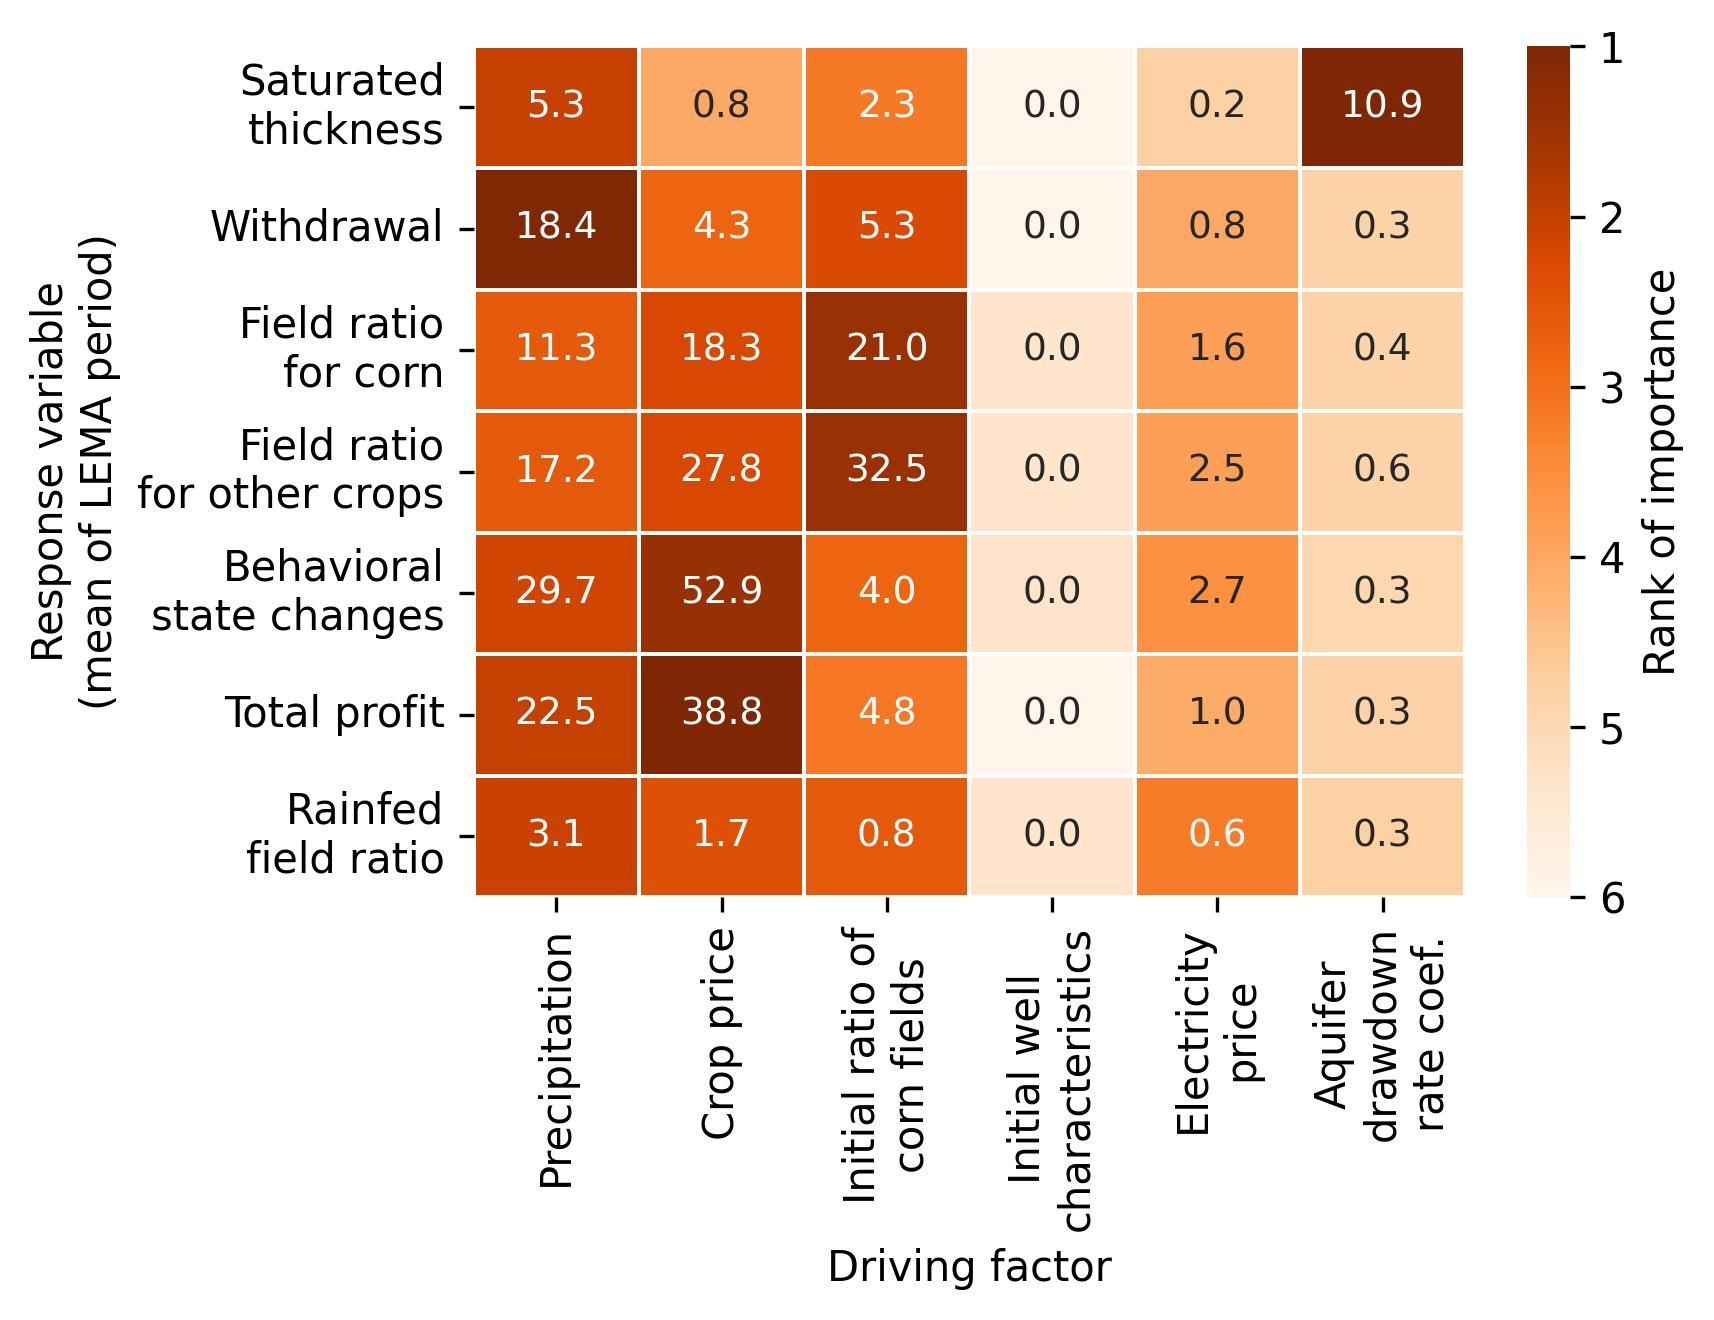
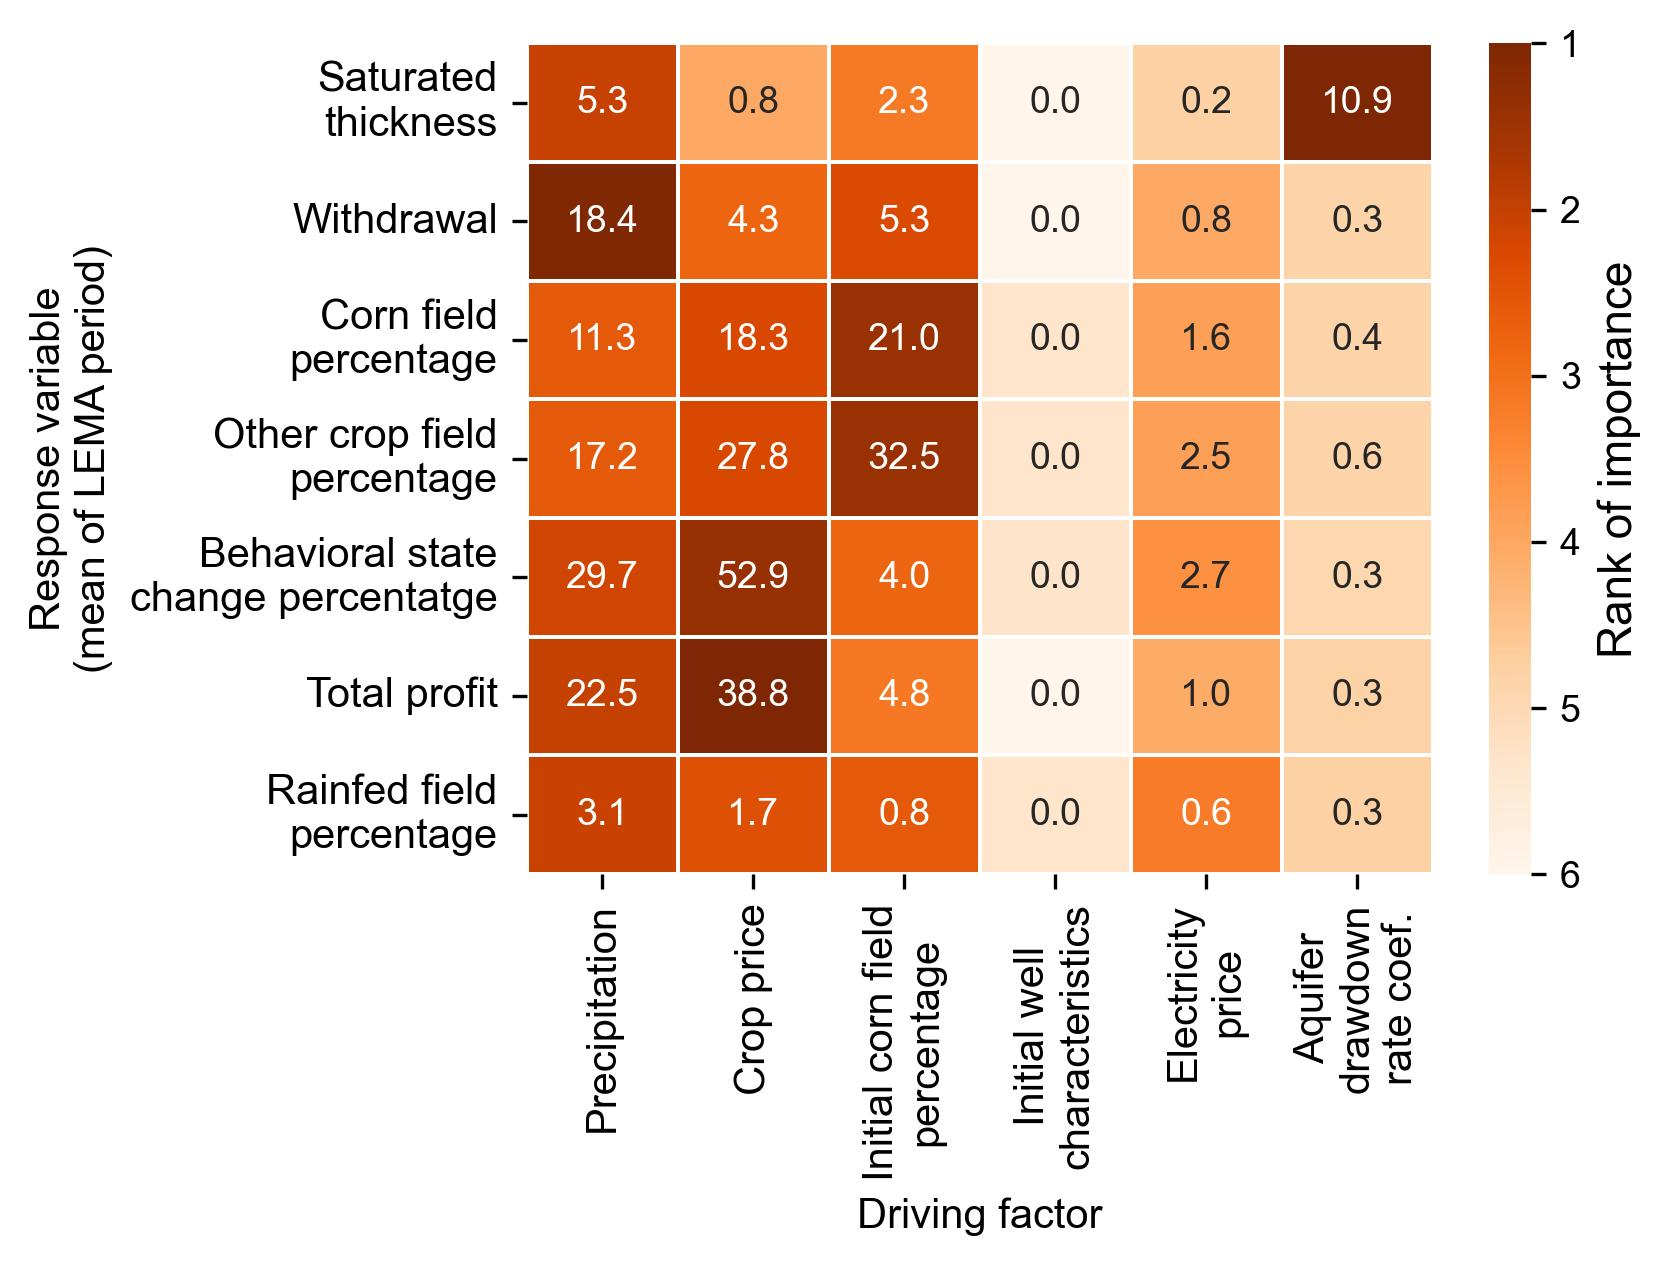
update figure ratio to percentage

diff --git a/code/anova_utils.py b/code/anova_utils.py
@@ -22,7 +22,24 @@ var_dict = {
     'CSC': 'Behavioral\nstate changes',
     'TP': 'Total\nprofit'
     }
-
+var_dict_revised = {
+    'ST': 'Saturated\nthickness',
+    'Wi': 'Withdrawal',
+    'RF': 'Rainfed\nfield ratio',
+    'CF': 'Corn field\npercentage',
+    'OF': 'Other crop field\npercentage',
+    'CSC': 'Behavioral state\nchange percentatge',
+    'TP': 'Total\nprofit'
+    }
+var_dict_revised2 = {
+    'ST': 'Saturated\nthickness',
+    'Wi': 'Withdrawal',
+    'RF': 'Rainfed\nfield ratio',
+    'CF': 'Corn field\npercentage',
+    'OF': 'Other crop field\npercentage',
+    'CSC': 'Behavioral\nstate change\npercentatge',
+    'TP': 'Total\nprofit'
+    }
 
 def anova_yr(y_out, df_sys_all, yr, seed=None, plot_residual=False, typ=1):
     """
@@ -260,17 +277,17 @@ def plot_anova_sum_sq_fraction(mu_dict, save_figname=None):
     reordered_colors = [cm(0), cm(1), cm(5), cm(3), cm(4)]
     vars_order = ["Pr", "Cr", "Co", "IV", "Interaction terms"]
     def add_anova(ax, v, show_xticks=True):
-        name = var_dict[v]
+        name = var_dict_revised[v]
         mu = mu_dict[v][vars_order]
         mu.plot(kind='bar', stacked=True, ax=ax, width=0.7, legend=False, color=reordered_colors, edgecolor='dimgray')
-        ax.set_ylabel(name, fontsize=10)
+        ax.set_ylabel(name, fontsize=12)
         ax.set_ylim([0,1])
         ax.grid(True, axis='y', linestyle='--', alpha=0.5)
         if show_xticks is False:
             ax.set_xticklabels([])
         else:
-            ax.set_xlabel("Year", fontsize=10)
-
+            ax.set_xlabel("Year", fontsize=12)
+        ax.tick_params(axis='both', labelsize=12)
     def add_anova_mean(ax, v, show_xticks=True):
         mu = df_mean.loc[[v], vars_order]
         mu.index = ["Mean"]
@@ -281,6 +298,7 @@ def plot_anova_sum_sq_fraction(mu_dict, save_figname=None):
         ax.grid(True, axis='y', linestyle='--', alpha=0.5)
         if show_xticks is False:
             ax.set_xticklabels([])
+        ax.tick_params(axis='both', labelsize=12)
         # Remove all four spines (top, right, left, bottom)
         #for spine in ['top', 'right', 'left', 'bottom']:
         #    ax.spines[spine].set_visible(False)
@@ -294,12 +312,13 @@ def plot_anova_sum_sq_fraction(mu_dict, save_figname=None):
     map_dict = {
         "Pr": "Prec ratio\n(Pr)",
         "Cr": "Crop price\nratio (Cr)",
-        "Co": "Initial corn\nfield ratio (Co)",
+        "Co": "Initial corn field\npercentage (Co)",
         "IV": "Internal\nvariability",
         #"Error": "Model\nerror",
         "Interaction terms": "Interaction\nterms"}
     labels = [map_dict[i] if map_dict.get(i) is not None else i for i in labels]
-    fig.legend(handles, labels, ncols=len(vars_order), bbox_to_anchor=(0.48, -0.05), loc='upper center', frameon=False, fontsize=8)
+    fig.legend(handles, labels, ncols=len(vars_order), bbox_to_anchor=(0.48, -0.05), 
+               loc='upper center', frameon=False, fontsize=10)
     v = 'ST'
     ax = fig.add_subplot(gs[1, 0])
     add_anova(ax, v)
@@ -344,7 +363,7 @@ def plot_anova_sum_sq_fraction(mu_dict, save_figname=None):
     ]
 
     for label, (x, y) in zip(labels, positions):
-        fig.text(x, y, label, fontsize=10, fontweight='bold', ha='left', va='top')
+        fig.text(x, y, label, fontsize=12, fontweight='bold', ha='left', va='top')
 
     # Show the plot
     fig.tight_layout(rect=[0, 0, 0.85, 1])
@@ -674,6 +693,7 @@ def plot_norm_comparison(pn, df_Wi_regime_norm, fraction=True, save_figname=None
         # Reverse the x-axis tick labels
         ax.set_xticks([-1, -0.5, 0, 0.5, 1])
         ax.set_xticklabels([1, 0.5, 0, 0.5, 1])
+        ax.tick_params(axis='both', labelsize=12)
 
         # Add labels at center line
         for i, v in enumerate(vlist):
@@ -703,9 +723,11 @@ def plot_norm_comparison(pn, df_Wi_regime_norm, fraction=True, save_figname=None
     v_regime = "Wi_regime"
     df_lower, df_higher = get_df_higher_lower(v_regime)
     add_bars(ax, df_lower, df_higher)
-    ax.set_ylabel("Fraction of\nvariance explained", fontsize=10)
-    ax.set_xticklabels([var_dict[v] for v in df_lower.index])
-    ax.set_ylabel("Fraction of\nvariance explained", fontsize=10)
+    ax.set_ylabel("Fraction of\nvariance explained", fontsize=12)
+    ax.set_xticklabels([var_dict_revised2[v] for v in df_lower.index])
+    ax.set_ylabel("Fraction of\nvariance explained", fontsize=12)
+    # Tick labels (x and y)
+    ax.tick_params(axis='both', labelsize=10.5)
 
     ##### Second left subplot (bottom-left), share x-axis
     # ax = fig.add_subplot(gs[1, 0])
@@ -717,9 +739,11 @@ def plot_norm_comparison(pn, df_Wi_regime_norm, fraction=True, save_figname=None
 
     # Add legend
     handles, labels = ax.get_legend_handles_labels()
-    map_dict = {"Pr": "Prec ratio\n(Pr)", "Cr": "Crop price\nratio (Cr)", "Co": "Initial corn\nfield ratio (Co)", "Residual": "Internal\nvariability", "Interaction terms": "Interaction\nterms"}
+    map_dict = {"Pr": "Prec ratio\n(Pr)", "Cr": "Crop price\nratio (Cr)", 
+                "Co": "Initial corn field\n percentage (Co)", "Residual": "Internal\nvariability", "Interaction terms": "Interaction\nterms"}
     labels = [map_dict[i] if map_dict.get(i) is not None else i for i in labels]
-    legend1 = fig.legend(handles, labels, ncols=5, bbox_to_anchor=(0.5, 0.03), loc='upper center', frameon=False, fontsize=8)
+    legend1 = fig.legend(handles, labels, ncols=5, bbox_to_anchor=(0.5, 0.05), loc='upper center', 
+                         frameon=False, fontsize=10)
     # Second legend: hatch styles
     hatch_lower = mpatches.Patch(facecolor='white', edgecolor='dimgray', hatch='//', label='Lower than\nhistorical values')
     hatch_higher = mpatches.Patch(facecolor='white', edgecolor='dimgray', hatch=None, label='Higher than\nhistorical values')
@@ -727,10 +751,10 @@ def plot_norm_comparison(pn, df_Wi_regime_norm, fraction=True, save_figname=None
         [hatch_higher, hatch_lower],
         ['Higher irrigation intensity', 'Lower irrigation intensity'],
         ncol=2,
-        bbox_to_anchor=(0.5, -0.1),
+        bbox_to_anchor=(0.5, -0.12),
         loc='upper center',
         frameon=False,
-        fontsize=8
+        fontsize=10
     )
 
     # Ensure both legends are added to the figure
@@ -740,8 +764,12 @@ def plot_norm_comparison(pn, df_Wi_regime_norm, fraction=True, save_figname=None
     ##### Third right subplot (top-right)
     ax = fig.add_subplot(gs[0, 1])
     add_hbar(ax, df_Wi_regime_norm, reverse=False)
-    ax.set_xlabel('Normalized mean value')
-
+    ax.set_xlabel('Normalized mean value', fontsize=12)
+    ax.set_ylabel('Variable', fontsize=12)
+    
+    # Tick labels (x and y)
+    ax.tick_params(axis='both', labelsize=12)
+    
     ##### Forth right subplot (bottom-right)
     # ax = fig.add_subplot(gs[1, 1])
     # add_hbar(ax, df_ST_regime_norm, reverse=True, hatch_at="higher")
@@ -754,7 +782,7 @@ def plot_norm_comparison(pn, df_Wi_regime_norm, fraction=True, save_figname=None
     ]
 
     for label, (x, y) in zip(labels, positions):
-        fig.text(x, y, label, fontsize=10, fontweight='bold', ha='left', va='top')
+        fig.text(x, y, label, fontsize=12, fontweight='bold', ha='left', va='top')
 
     #fig.text(-0.03, 0.78, "Withdrawal regime\ncomparison", fontsize=10, ha='center', va='center', rotation=90)
     #fig.text(-0.03, 0.32, "Saturated thickness\nregime comparison", fontsize=10, ha='center', va='center', rotation=90)

diff --git a/figures/code_for_plotting/fig3_S3_oat_heatmaps.py b/figures/code_for_plotting/fig3_S3_oat_heatmaps.py
@@ -10,15 +10,21 @@ pn = pathnavigator.create(root_dir)
 df_rank = pd.read_csv(pn.figures.data_for_plotting.get()/"fig3_oat_df_rank.csv", index_col=[0])
 df_si = pd.read_csv(pn.figures.data_for_plotting.get()/"fig3_oat_df_si.csv", index_col=[0])
 
+rename_map = {}
+
 df_rank.index = [i.replace("\r", "") for i in df_rank.index]
 df_si.index = [i.replace("\r", "") for i in df_si.index]
 df_rank.columns = [i.replace("\r", "") for i in df_rank.columns]
 df_si.columns = [i.replace("\r", "") for i in df_si.columns]
+
+
+df_rank.columns
+rename_map = {'Field ratio\nfor corn'}
 #%% Figure 3 OAT heatmap
 factors_ = [
     "Precipitation",
     "Crop price",
-    "Initial ratio of\ncorn fields",
+    'Initial corn field\npercentage',
     'Initial well' + '\n' + 'characteristics',#'\n'+r'($\bar{B}$)',
     ]
 
@@ -26,7 +32,7 @@ factors_ = [
 fig, ax = plt.subplots(figsize=(3.7, 4.2))
 
 # Plot the heatmap
-sns.heatmap(
+hm = sns.heatmap(
     df_rank.T[factors_],
     annot=df_si.T[factors_],
     cmap="Oranges_r",# "Reds_r",
@@ -36,6 +42,10 @@ sns.heatmap(
     annot_kws={"fontsize": 9},#, "fontweight": "bold"},
     ax=ax,
 )
+
+cbar = hm.collections[0].colorbar
+cbar.set_label("Rank of importance", fontsize=11)
+cbar.ax.tick_params(labelsize=9)
 
 ax.collections[0].colorbar.ax.invert_yaxis()
 ax.tick_params(axis="x", labelrotation=90)
@@ -54,7 +64,7 @@ plt.show()
 factors_ = [
     "Precipitation",
     "Crop price",
-    "Initial ratio of\ncorn fields",
+    'Initial corn field\npercentage',
     r'Initial well' + '\n' + 'characteristics',#'\n'+r'($\bar{B}$)',
     "Electricity\nprice",
     "Aquifer\ndrawdown\nrate coef.",
@@ -64,7 +74,7 @@ factors_ = [
 fig, ax = plt.subplots(figsize=(5.91, 4.5))
 
 # Plot the heatmap
-sns.heatmap(
+hm = sns.heatmap(
     df_rank.T[factors_],
     annot=df_si.T[factors_],
     cmap="Oranges_r",# "Reds_r",
@@ -74,6 +84,10 @@ sns.heatmap(
     annot_kws={"fontsize": 9},#, "fontweight": "bold"},
     ax=ax,
 )
+
+cbar = hm.collections[0].colorbar
+cbar.set_label("Rank of importance", fontsize=11)
+cbar.ax.tick_params(labelsize=9)
 
 ax.collections[0].colorbar.ax.invert_yaxis()
 ax.tick_params(axis="x", labelrotation=90)

diff --git a/figures/code_for_plotting/figS5_anova.py b/figures/code_for_plotting/figS5_anova.py
@@ -30,14 +30,14 @@ medians = {
 hue_var_dict = {
     "Pr": "Prec ratio\n(Pr)",
     "Cr": "Crop price\nratio (Cr)",
-    "Co": "Initial corn\nfield ratio (Co)",
+    "Co": "Initial corn\nfield percentage (Co)",
     }
 
 y_var_dict = {
     "ST": "Saturated\nthickness\n(m)",
     "Wi": "Withdrawal\n($10^6 m^3$)",
-    "CF": "Field ratio\nfor corn\n(--)",
-    "CSC": "Behavioral\nstate changes\n(--)"
+    "CF": "Corn field\npercentage\n(%)",
+    "CSC": "Behavioral\nstate change\npercentage\n(%)"
     }
 
 
@@ -50,6 +50,8 @@ for i, y_var in enumerate(y_vars):
         ax = axes[i, j]
 
         df_subset = df_sys_all.copy()
+        df_subset[['RF','CF','OF']] *= 100
+        df_subset[['CSC']] /= 3.36
         for v in hue_vars:
             if v != hue_var:
                 df_subset = df_subset[np.isclose(df_subset[v], medians[v])]
@@ -73,14 +75,14 @@ for i, y_var in enumerate(y_vars):
         )
 
         if i == 0:
-            ax.set_title(f'{hue_var_dict[hue_var]}', fontsize=10)
+            ax.set_title(f'{hue_var_dict[hue_var]}', fontsize=14)
             ax.set_ylim([15, 22])
         if i == 1:
             ax.set_ylim([0, 40])
         if i == 2:
-            ax.set_ylim([0, 1.25])
+            ax.set_ylim([0, 100])
         if i == 3:
-            ax.set_ylim([0, 400])
+            ax.set_ylim([0, 100])
 
         if j == 0:
             ax.set_ylabel(f"{y_var_dict[y_var]}")

diff --git a/code/oat_analysis.py b/code/oat_analysis.py
@@ -51,6 +51,7 @@ def extract_oat(scen, exp_folder):
     df = df.iloc[1:, :]
     df = df.set_index("year")
     dff = df.mean()
+    
     number_list = [float(num) for num in re.findall(r"[+]?\d*\.\d+|\d+", scen)]
     columns = [
         "prec_ratio",
@@ -156,6 +157,19 @@ for seed in [1,2,67]:
 
 df_rank = sum(dfs_rank) / len(dfs_rank)
 df_si = sum(dfs_si) / len(dfs_si)
+
+rename_map = {
+    'Field ratio\nfor corn': 'Corn field\npercentage',
+    'Field ratio\nfor others': 'Other crop field\npercentage', 
+    'Behavioral\nstate changes': 'Behavioral state\nchange percentatge', 
+    'Rainfed\nfield ratio': 'Rainfed field\npercentage',
+    'Initial ratio of\ncorn fields': 'Initial corn field\npercentage'
+    }
+df_rank.rename(index=rename_map, inplace=True)
+df_rank.rename(columns=rename_map, inplace=True)
+df_si.rename(index=rename_map, inplace=True)
+df_si.rename(columns=rename_map, inplace=True)
+
 df_rank.to_csv(pn.figures.data_for_plotting.get()/"fig3_oat_df_rank.csv")
 df_si.to_csv(pn.figures.data_for_plotting.get()/"fig3_oat_df_si.csv")
 

diff --git a/figures/code_for_plotting/fig4_5_anova.py b/figures/code_for_plotting/fig4_5_anova.py
@@ -17,12 +17,12 @@ def strip_C(col):
 
     
     
-# # The plotting data is copied from outputs
-mu_dict = clt.io.read_pd_hdf5(pn.figures.data_for_plotting.get()/"anova_mu_fraction_withIV_seperated.h5")
-for k, df in mu_dict.items():
-    df.rename(columns=strip_C, inplace=True)
-#mu_dict = clt.io.read_pd_hdf5(pn.figures.data_for_plotting.get()/"anova_mu_fraction_withIV_seperated.h5")
-plot_anova_sum_sq_fraction(mu_dict, pn.figures.get() / "fig4_anova.jpg")
+# # # The plotting data is copied from outputs
+# mu_dict = clt.io.read_pd_hdf5(pn.figures.data_for_plotting.get()/"anova_mu_fraction_withIV_seperated.h5")
+# for k, df in mu_dict.items():
+#     df.rename(columns=strip_C, inplace=True)
+# #mu_dict = clt.io.read_pd_hdf5(pn.figures.data_for_plotting.get()/"anova_mu_fraction_withIV_seperated.h5")
+# plot_anova_sum_sq_fraction(mu_dict, pn.figures.get() / "fig4_anova.jpg")
 
 #%%
 df_Wi_regime_norm = pd.read_csv(pn.figures.data_for_plotting.get()/"df_Wi_regime_norm.csv", index_col=[0])

diff --git a/figures/code_for_plotting/fig1_elements.py b/figures/code_for_plotting/fig1_elements.py
@@ -48,8 +48,8 @@ import pickle
 pn.code.chdir()
 from plotting import SD6Visual
 # Replace the path with the correct location of your .pkl file
-with open(pn.models.get('calibrated_model.pkl'), 'rb') as file:
-    m = pickle.load(file)
+# with open(pn.models.get('calibrated_model.pkl'), 'rb') as file:
+#     m = pickle.load(file)
 
 df_sys = pd.read_csv(pn.models.get() / "calibrated_model_df_sys.csv", index_col=[0])
 df_agt = pd.read_csv(pn.models.get() / "calibrated_model_df_agt.csv", index_col=[0])

diff --git a/code/plotting.py b/code/plotting.py
@@ -597,10 +597,10 @@ class SD6Visual:
         ax = fig.add_axes([0, 1 / 4 * 2 + 1 / 4 / 3 * 2.5, 1, 1 / 4])
         axes.append(ax)
         plot_var_timeseries(
-            ax, var_, var_rescale=1, ylabel="Field ratio\nfor corn\n(--)"
+            ax, var_, var_rescale=100, ylabel="Corn field\npercentage\n(%)"
         )
 
-        ax.set_ylim([0, 1])
+        ax.set_ylim([0, 100])
         ax.set_xlabel("Year")
 
         ax.yaxis.set_label_coords(ylabel_xloc, 0.5)
